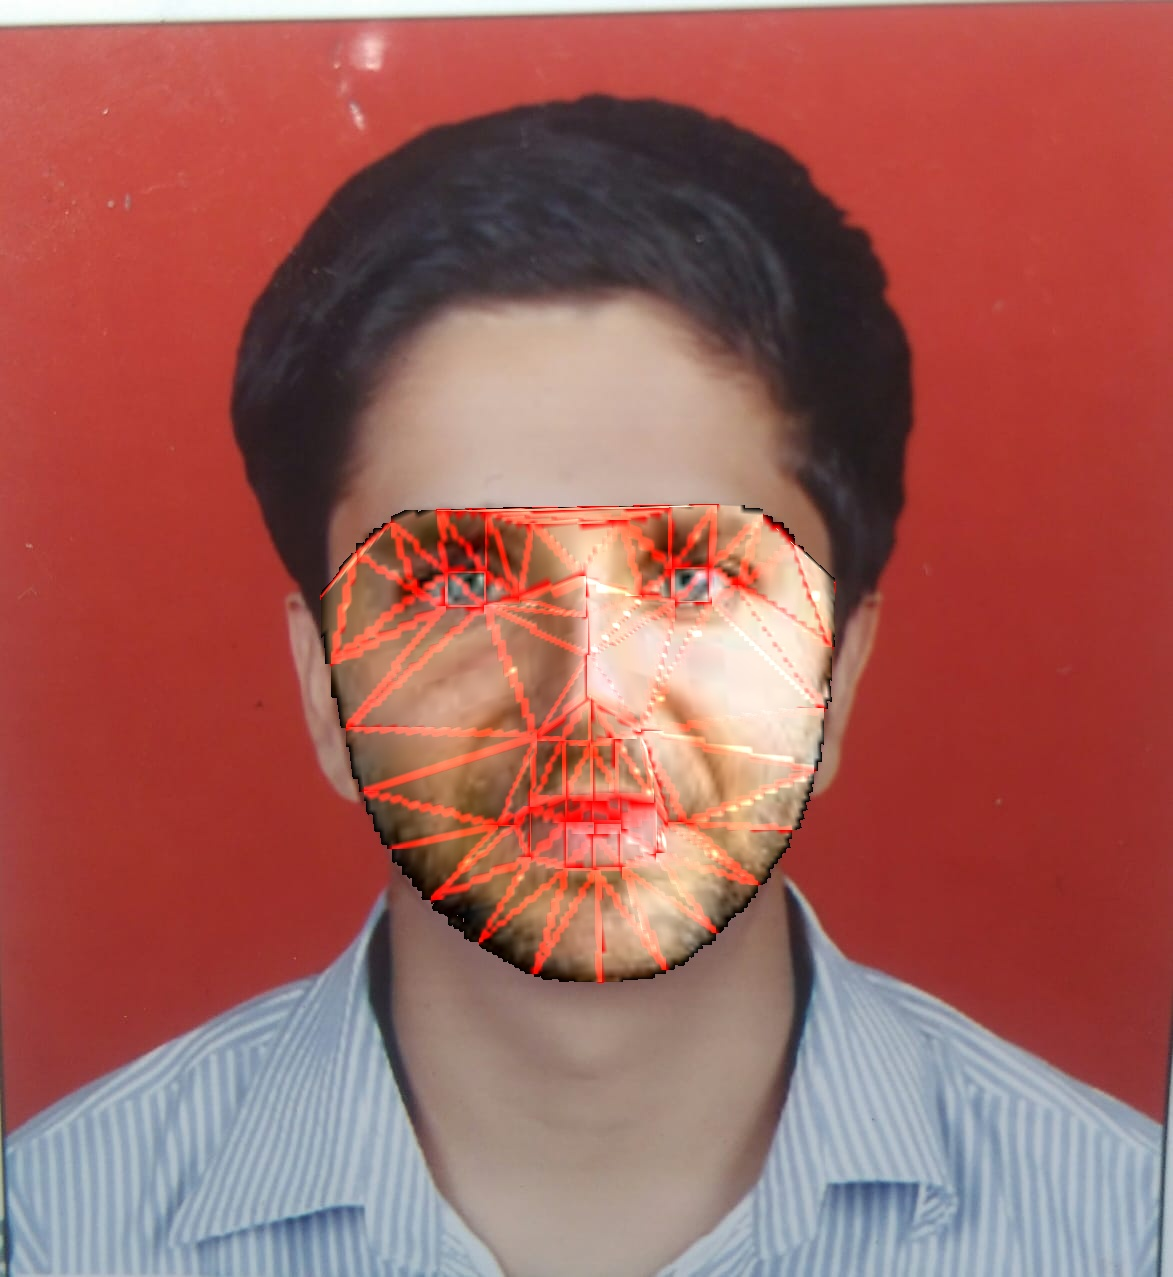
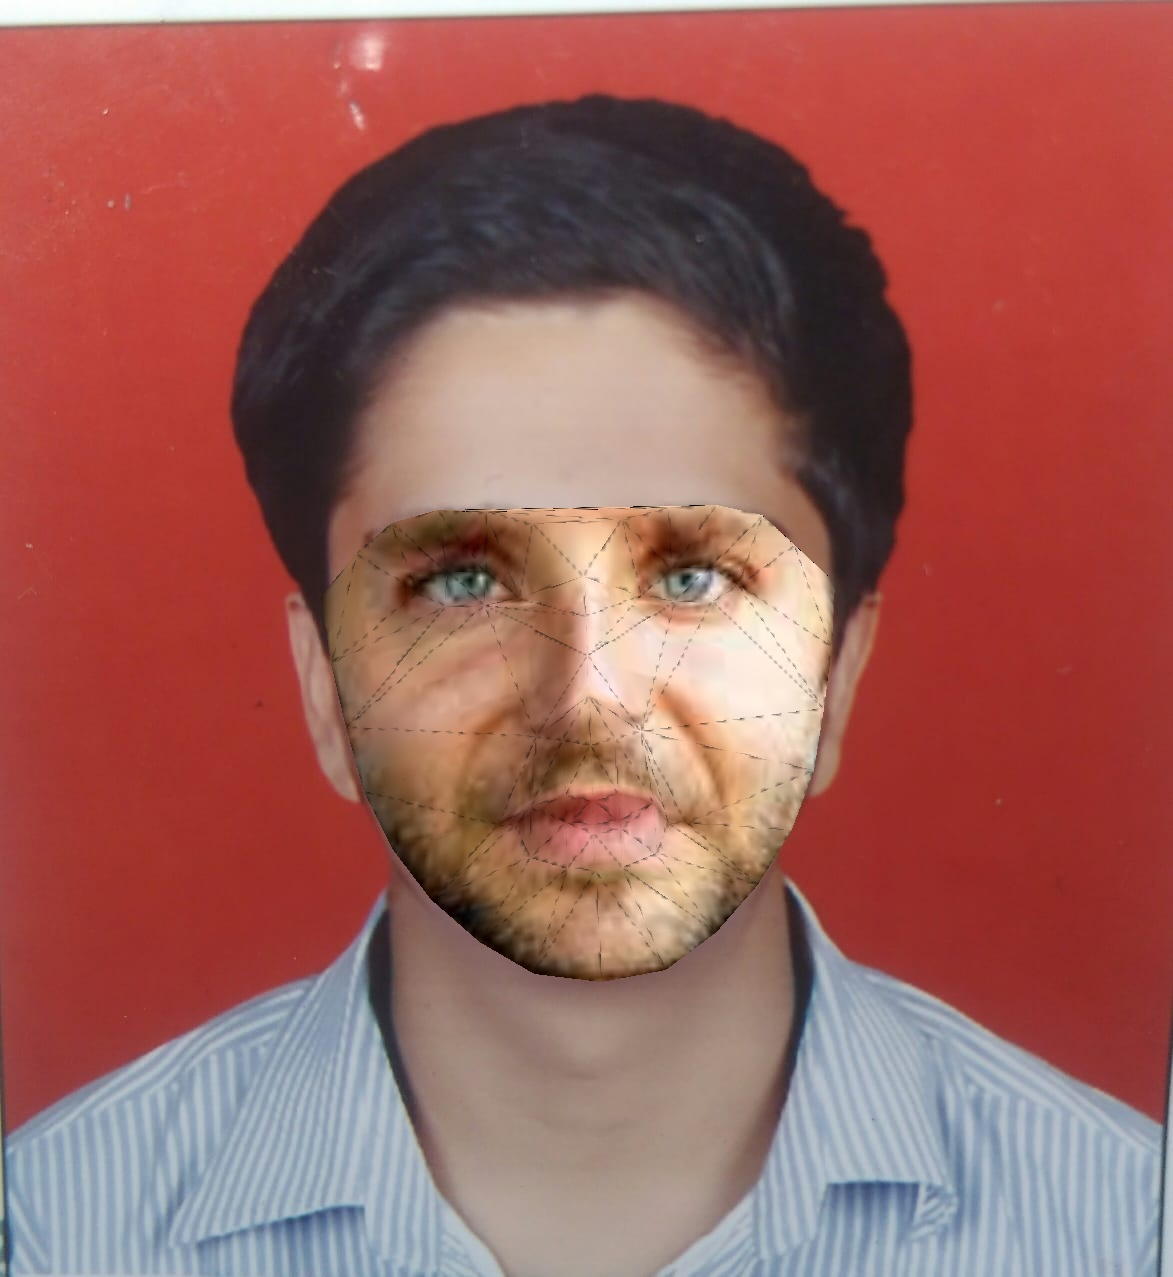
Add files via upload

Changed region(s): [[0.2762, 0.397, 0.7059, 0.7635]]

diff --git a/face_swapping.py b/face_swapping.py
@@ -1,0 +1,250 @@
+import cv2
+import numpy as np
+import dlib
+
+def extract_index_nparray(nparray):
+	index=None
+	for num in nparray[0]:
+		index=num
+		break
+
+	return index
+
+
+
+img=cv2.imread("/home/chiranjeev/Desktop/face_swapping/bradely.jpeg")
+img_gray=cv2.cvtColor(img,cv2.COLOR_BGR2GRAY)
+mask=np.zeros_like(img_gray)
+detector=dlib.get_frontal_face_detector()
+predictor=dlib.shape_predictor("shape_predictor_68_face_landmarks.dat")
+
+faces=detector(img_gray)
+
+for face in faces:
+	landmarks=predictor(img_gray,face)
+	landmarks_points=[]
+
+	for n in range(0,68):
+		x=landmarks.part(n).x
+		y=landmarks.part(n).y
+		landmarks_points.append((x,y))
+
+		# cv2.circle(img,(x,y),3,(0,0,255),1)
+
+	points=np.array(landmarks_points,np.int32)
+	convexhull=cv2.convexHull(points)
+
+	# cv2.polylines(img,[convexhull],True,(255,0,0),3)
+	cv2.fillConvexPoly(mask,convexhull,255)
+
+	face_image1=cv2.bitwise_and(img,img,mask=mask)
+
+	#Delaunay traingulation
+	rect=cv2.boundingRect(convexhull)
+	subdiv=cv2.Subdiv2D(rect)
+	subdiv.insert(landmarks_points)
+	traingles=subdiv.getTriangleList()
+	traingles=np.array(traingles,dtype=np.int32)
+
+	indexes_triangles=[]
+
+	for t in traingles:
+		pt1=(t[0],t[1])
+		pt2=(t[2],t[3])
+		pt3=(t[4],t[5])
+
+		##pt1
+
+		#print("pt1=\n",pt1)
+		index_pt1=np.where((points==pt1).all(axis=1))
+		index_pt1=extract_index_nparray(index_pt1)
+		#print("index_pt1\n",index_pt1)
+
+		##pt2
+
+		#print("pt2=\n",pt2)
+		index_pt2=np.where((points==pt2).all(axis=1))
+		index_pt2=extract_index_nparray(index_pt2)
+		#print("index_pt2\n",index_pt2)
+	
+		##pt3
+
+		#print("pt3=\n",pt3)
+		index_pt3=np.where((points==pt3).all(axis=1))
+		index_pt3=extract_index_nparray(index_pt3)
+		#print("index_pt3\n",index_pt3)
+
+		if index_pt1 is not None and index_pt2 is not None and index_pt3 is not None:
+			triangle=[index_pt1,index_pt2,index_pt3]
+			indexes_triangles.append(triangle) 
+
+
+		# cv2.circle(img,pt1,3,(0,255,0),-1)
+		# cv2.imwrite("/home/chiranjeev/Desktop/face_swapping/created_image_marked_pt1_of_triangles.jpg",img)
+	
+		# cv2.circle(img,pt2,3,(15,29,130),2)
+		# cv2.imwrite("/home/chiranjeev/Desktop/face_swapping/created_image_marked_pt2_of_triangles.jpg",img)
+
+		# cv2.circle(img,pt3,3,(139,55,10),2)
+		# cv2.imwrite("/home/chiranjeev/Desktop/face_swapping/created_image_marked_pt3_of_triangles.jpg",img)
+
+
+		# cv2.line(img,pt1,pt2,(0,0,255),1)
+		# cv2.line(img,pt2,pt3,(0,0,255),1)
+		# cv2.line(img,pt3,pt1,(0,0,255),1)
+	
+	##################################
+	#printing indexes
+	# print(indexes_triangles)
+	##################################
+
+	# cv2.imshow("created_image",img)
+	# cv2.imwrite("/home/chiranjeev/Desktop/face_swapping/created_image.jpg",img)
+	#cv2.imshow("face_image",face_image1)
+	#cv2.imshow("mask",mask)
+
+########FACE-2################
+
+img2=cv2.imread("/home/chiranjeev/Desktop/face_swapping/faces2.jpeg")
+img2_gray=cv2.cvtColor(img2,cv2.COLOR_BGR2GRAY)
+
+faces2=detector(img2_gray)
+
+for face in faces2:
+	landmarks2=predictor(img2_gray,face)
+	landmarks_points2=[]
+
+	for n in range(0,68):
+		x=landmarks2.part(n).x
+		y=landmarks2.part(n).y
+		landmarks_points2.append((x,y))
+
+
+		#cv2.circle(img2,(x,y),3,(0,255,0),-1)
+
+	#drawing triangle on face2 same as face1
+
+	#cv2.imshow("created_image2",img2)
+	#cv2.imwrite("created_image2.jpg",img2)
+
+	points2=np.array(landmarks_points2,np.int32)
+	convexhull2=cv2.convexHull(points2)
+
+lines_space_mask=np.zeros_like(img_gray)
+lines_space_new_face=np.zeros_like(img2)
+
+img2_new_face=np.zeros_like(img2,np.uint8)
+
+for triangle_index in indexes_triangles:
+
+	#########first face#########
+
+	tr1_pt1=landmarks_points[triangle_index[0]]
+	tr1_pt2=landmarks_points[triangle_index[1]]
+	tr1_pt3=landmarks_points[triangle_index[2]]
+	traingle1=np.array([tr1_pt1,tr1_pt2,tr1_pt3],np.int32)
+	rect1=cv2.boundingRect(traingle1)
+	(x1,y1,w1,h1)=rect1
+	# cv2.rectangle(img,(x1,y1),(x1+w1,y1+h1),(0,255,0),1)
+	cropped_triangle1=img[y1:y1+h1,x1:x1+w1]
+
+	cropped_tr1_mask=np.zeros((h1,w1),np.uint8)
+	points1=np.array([[tr1_pt1[0]-x1,tr1_pt1[1]-y1],
+					[tr1_pt2[0]-x1,tr1_pt2[1]-y1],
+					[tr1_pt3[0]-x1,tr1_pt3[1]-y1]],np.int32)
+
+	cv2.fillConvexPoly(cropped_tr1_mask,points1,255)
+	cropped_triangle1=cv2.bitwise_and(cropped_triangle1,cropped_triangle1,mask=cropped_tr1_mask)
+
+	#linespace
+
+	# cv2.line(lines_space_mask,tr1_pt1,tr1_pt2,255)
+	# cv2.line(lines_space_mask,tr1_pt2,tr1_pt3,255)
+	# cv2.line(lines_space_mask,tr1_pt1,tr1_pt3,255)
+	lines_sapce=cv2.bitwise_and(img,img,mask=lines_space_mask)
+	#########second face#########
+
+	tr2_pt1=landmarks_points2[triangle_index[0]]
+	tr2_pt2=landmarks_points2[triangle_index[1]]
+	tr2_pt3=landmarks_points2[triangle_index[2]]
+	triangle2=np.array([tr2_pt1,tr2_pt2,tr2_pt3],np.int32)
+	rect2=cv2.boundingRect(triangle2)
+	(x2,y2,w2,h2)=rect2
+	# cv2.rectangle(img2,(x2,y2),(x2+w2,y2+h2),(0,255,0,1))
+	cropped_triangle2=img2[y2:y2+h2,x2:x2+w2]
+	
+	cropped_tr2_mask=np.zeros((h2,w2),np.uint8)
+	points2=np.array([[tr2_pt1[0]-x2,tr2_pt1[1]-y2],
+					[tr2_pt2[0]-x2,tr2_pt2[1]-y2],
+					[tr2_pt3[0]-x2,tr2_pt3[1]-y2]],np.int32)
+
+	cv2.fillConvexPoly(cropped_tr2_mask,points2,255)
+	
+
+	# cv2.line(img2,tr2_pt1,tr2_pt2,(0,0,255),2)
+	# cv2.line(img2,tr2_pt2,tr2_pt3,(0,0,255),2)
+	# cv2.line(img2,tr2_pt3,tr2_pt1,(0,0,255),2)
+
+	#WARP TRAINGLES
+	points1=np.float32(points1)
+	points2=np.float32(points2)
+	#it will tell how much to swap these two triangles
+	M=cv2.getAffineTransform(points1,points2)
+	#print(M)
+
+	#warping triangle1 into triangle2
+	warped_triangle=cv2.warpAffine(cropped_triangle1,M,(w2,h2))
+	warped_triangle = cv2.bitwise_and(warped_triangle, warped_triangle, mask=cropped_tr2_mask)
+	#break
+
+	#Reconstruct destination face
+	img2_new_face_rect_area=img2_new_face[y2:y2+h2,x2:x2+w2]
+	
+	img2_new_face_gray=cv2.cvtColor(img2_new_face_rect_area,cv2.COLOR_BGR2GRAY)
+	_,background_mask=cv2.threshold(img2_new_face_gray,1,255,cv2.THRESH_BINARY_INV) #to put face
+	background=cv2.bitwise_and(warped_triangle,warped_triangle,mask=background_mask)
+	img2_new_face_rect_area = cv2.add(img2_new_face_rect_area, background)
+	img2_new_face[y2:y2+h2,x2:x2+w2]=img2_new_face_rect_area
+
+#face_swapped	
+
+img2_face_mask=np.zeros_like(img2_gray)
+img2_head_mask=cv2.fillConvexPoly(img2_face_mask,convexhull2,255)
+img2_face_mask=cv2.bitwise_not(img2_head_mask)
+
+img2_head_noface=cv2.bitwise_and(img2,img2,mask=img2_face_mask)
+
+result=cv2.add(img2_head_noface,img2_new_face)
+
+
+(x,y,w,h)=cv2.boundingRect(convexhull2)
+center_face2=(int((x+x+w)/2),int((y+y+h)/2))
+seamlessclone=cv2.seamlessClone(result,img2,img2_head_mask,center_face2,cv2.MIXED_CLONE)
+
+cv2.imwrite("/home/chiranjeev/Desktop/face_swapping/seamlessclone_result.jpg",seamlessclone)
+
+cv2.imwrite("/home/chiranjeev/Desktop/face_swapping/final_swapping_result.jpg",result)
+
+
+# cv2.imwrite("/home/chiranjeev/Desktop/face_swapping/background.jpg",background)
+
+# cv2.imwrite("/home/chiranjeev/Desktop/face_swapping/img2_new_face_triangle_area.jpg",img2_new_face)
+
+
+# cv2.imwrite("/home/chiranjeev/Desktop/face_swapping/wrapped_triangle.jpg",warped_triangle)
+
+# cv2.imwrite("/home/chiranjeev/Desktop/face_swapping/cropped_tr1_mask.jpg",cropped_tr1_mask)
+# cv2.imwrite("/home/chiranjeev/Desktop/face_swapping/cropped_tr2_mask.jpg",cropped_tr2_mask)
+
+# cv2.imwrite("/home/chiranjeev/Desktop/face_swapping/cropped_tr1_seperated_triangle1_mask.jpg",cropped_triangle1)
+# cv2.imwrite("/home/chiranjeev/Desktop/face_swapping/cropped_tr2_seperated_triangle2_mask.jpg",cropped_triangle2)
+
+# cv2.imwrite("/home/chiranjeev/Desktop/face_swapping/cropped_single_triangle_on_img.jpg",cropped_triangle1)
+# cv2.imwrite("/home/chiranjeev/Desktop/face_swapping/cropped_single_triangle_on_img2.jpg",cropped_triangle2)
+
+
+#cv2.imwrite("/home/chiranjeev/Desktop/face_swapping/single_triangle_on_img.jpg",img)
+#cv2.imwrite("/home/chiranjeev/Desktop/face_swapping/single_triangle_on__img2.jpg",img2)
+
+# cv2.imshow("same_pts_on_img2_as_img1",img2)
+# cv2.imwrite("/home/chiranjeev/Desktop/face_swapping/same_pts_on_img2_as_img1.jpg",img2)
